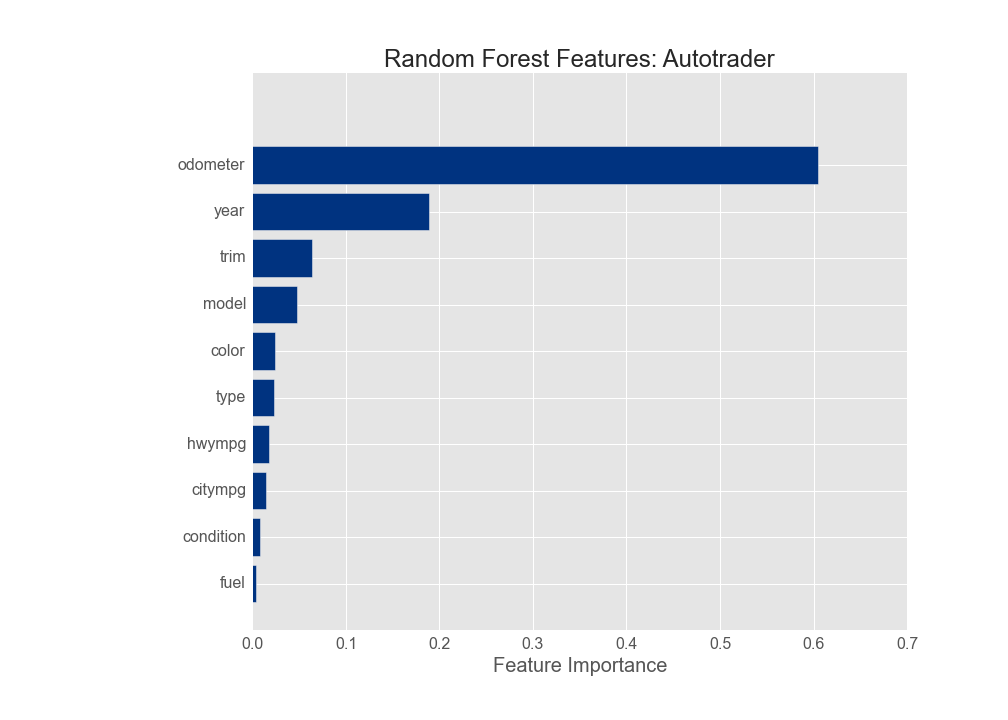
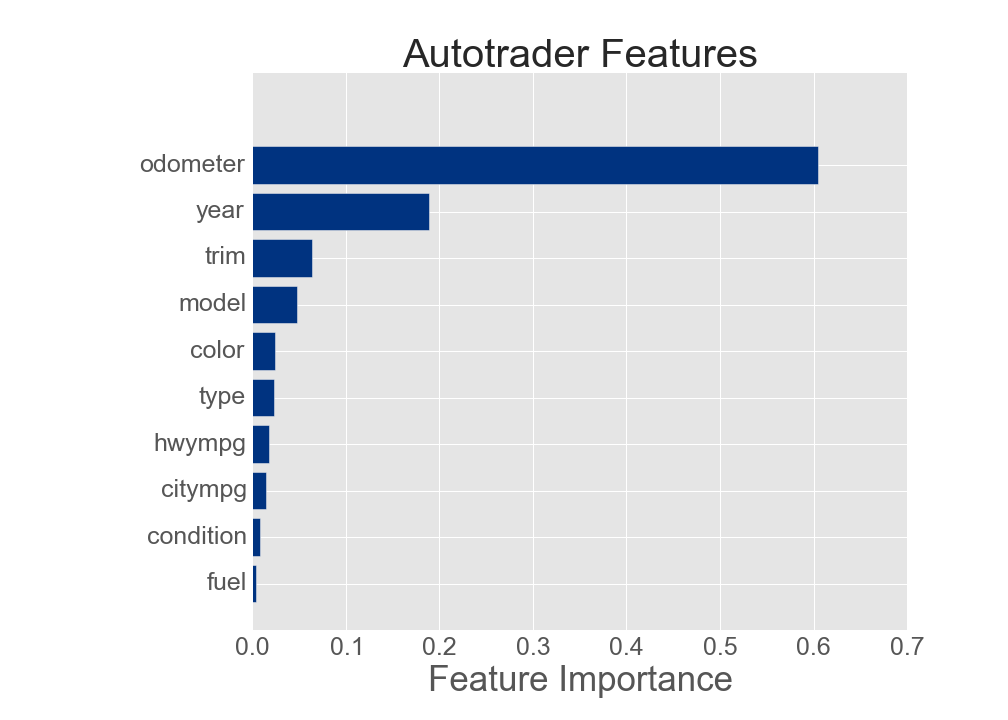
Updated figures for text size, format ticks, and colors. And updated invalid page for wrong car.

diff --git a/app/views.py b/app/views.py
@@ -227,8 +227,8 @@ def carcheck():
 
             # Making sure we get SOMETHING
             if query == None:
-                reason = 'Did not detect civic, corolla, focus, cruze' +\
-                         ', elantra, forte, or mazda'
+                reason = 'Did not detect Civic, Corolla, Focus, Cruze' +\
+                         ', Elantra, Forte, or Mazda3.'
                 return render_template("invalid.html", reason = reason)
             query = query.group(0).lower()
 
